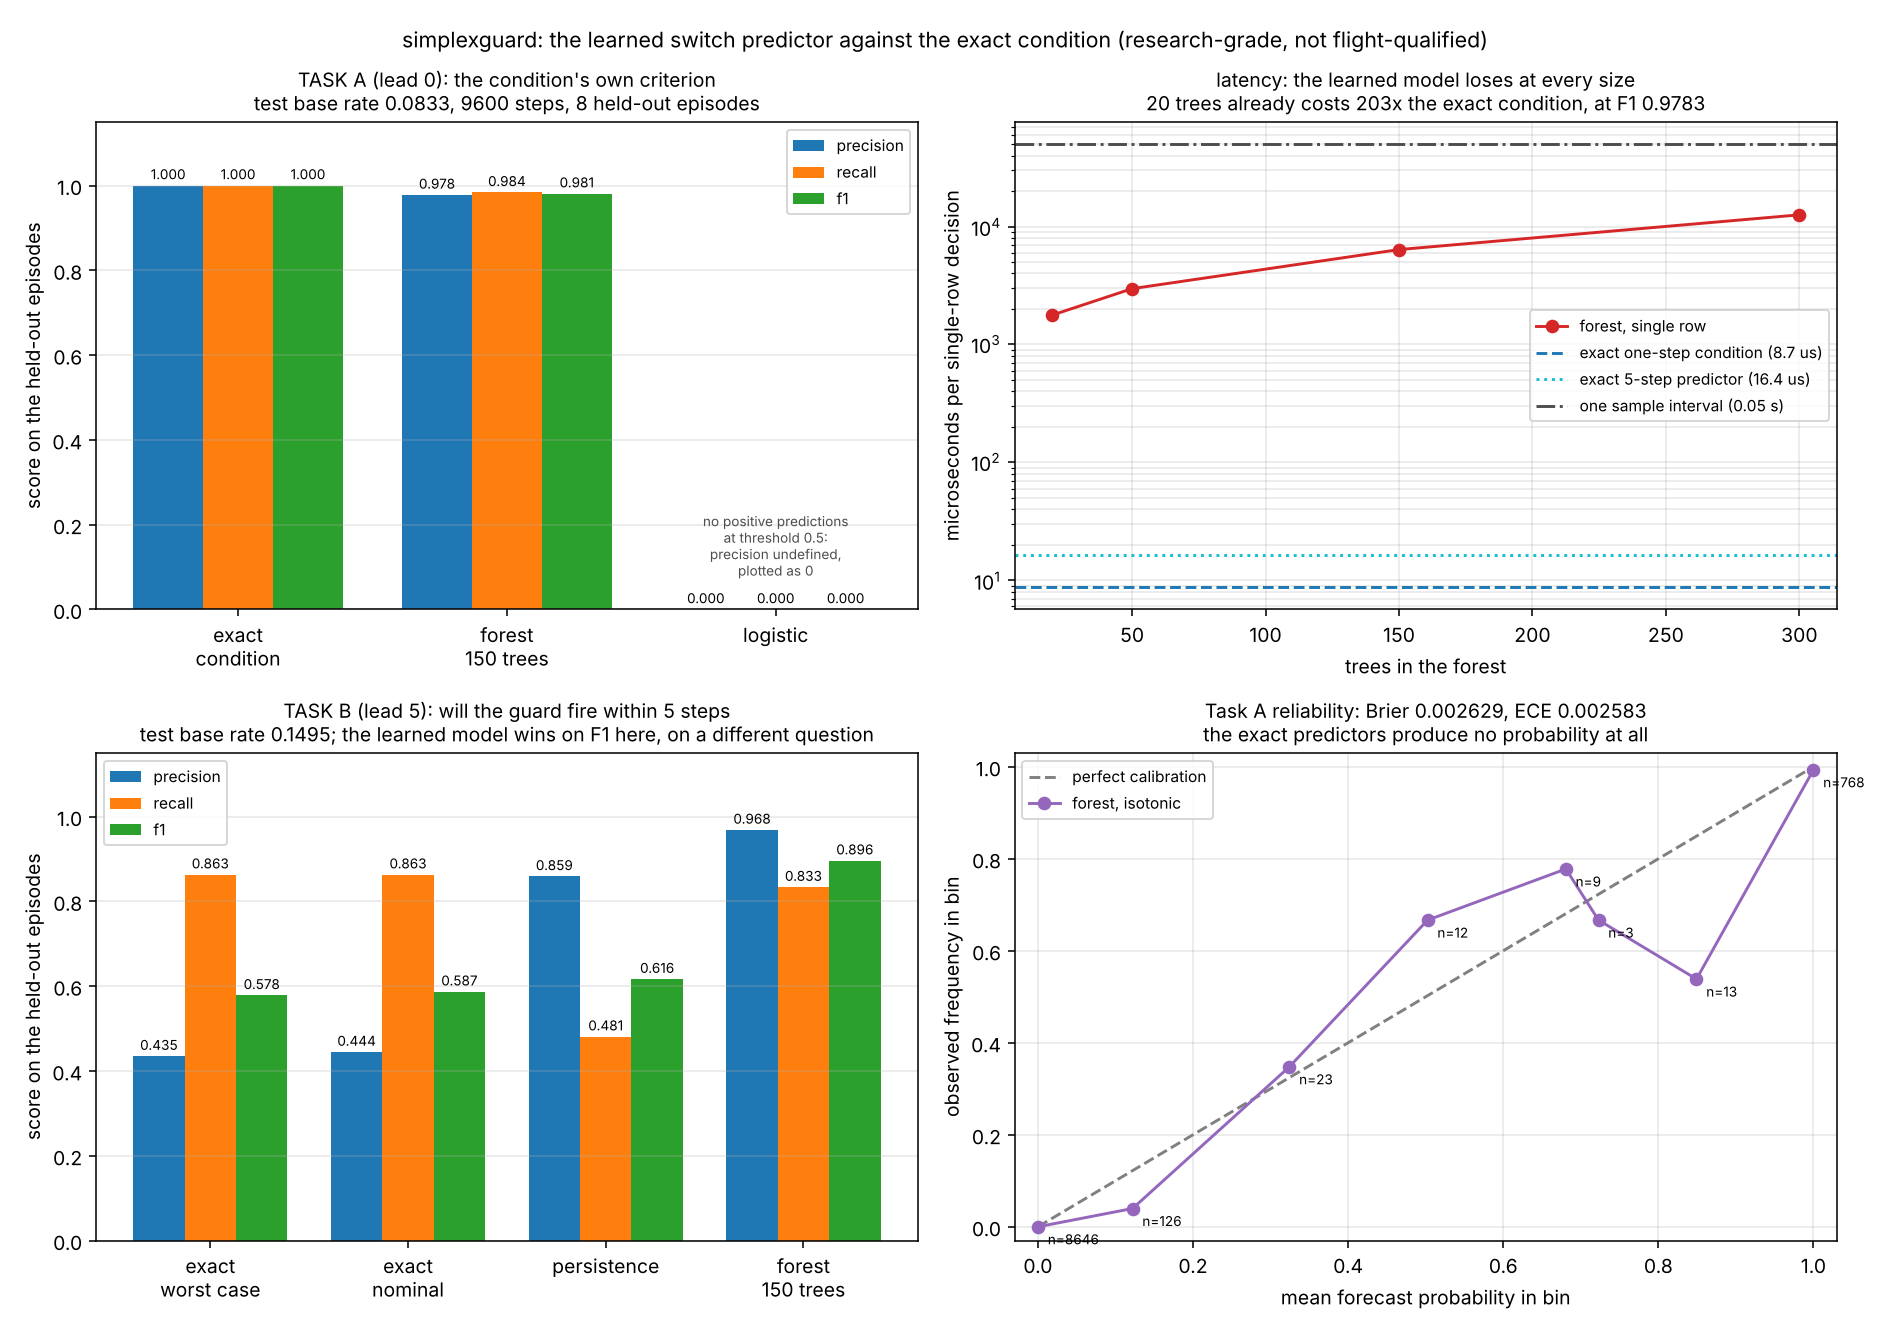
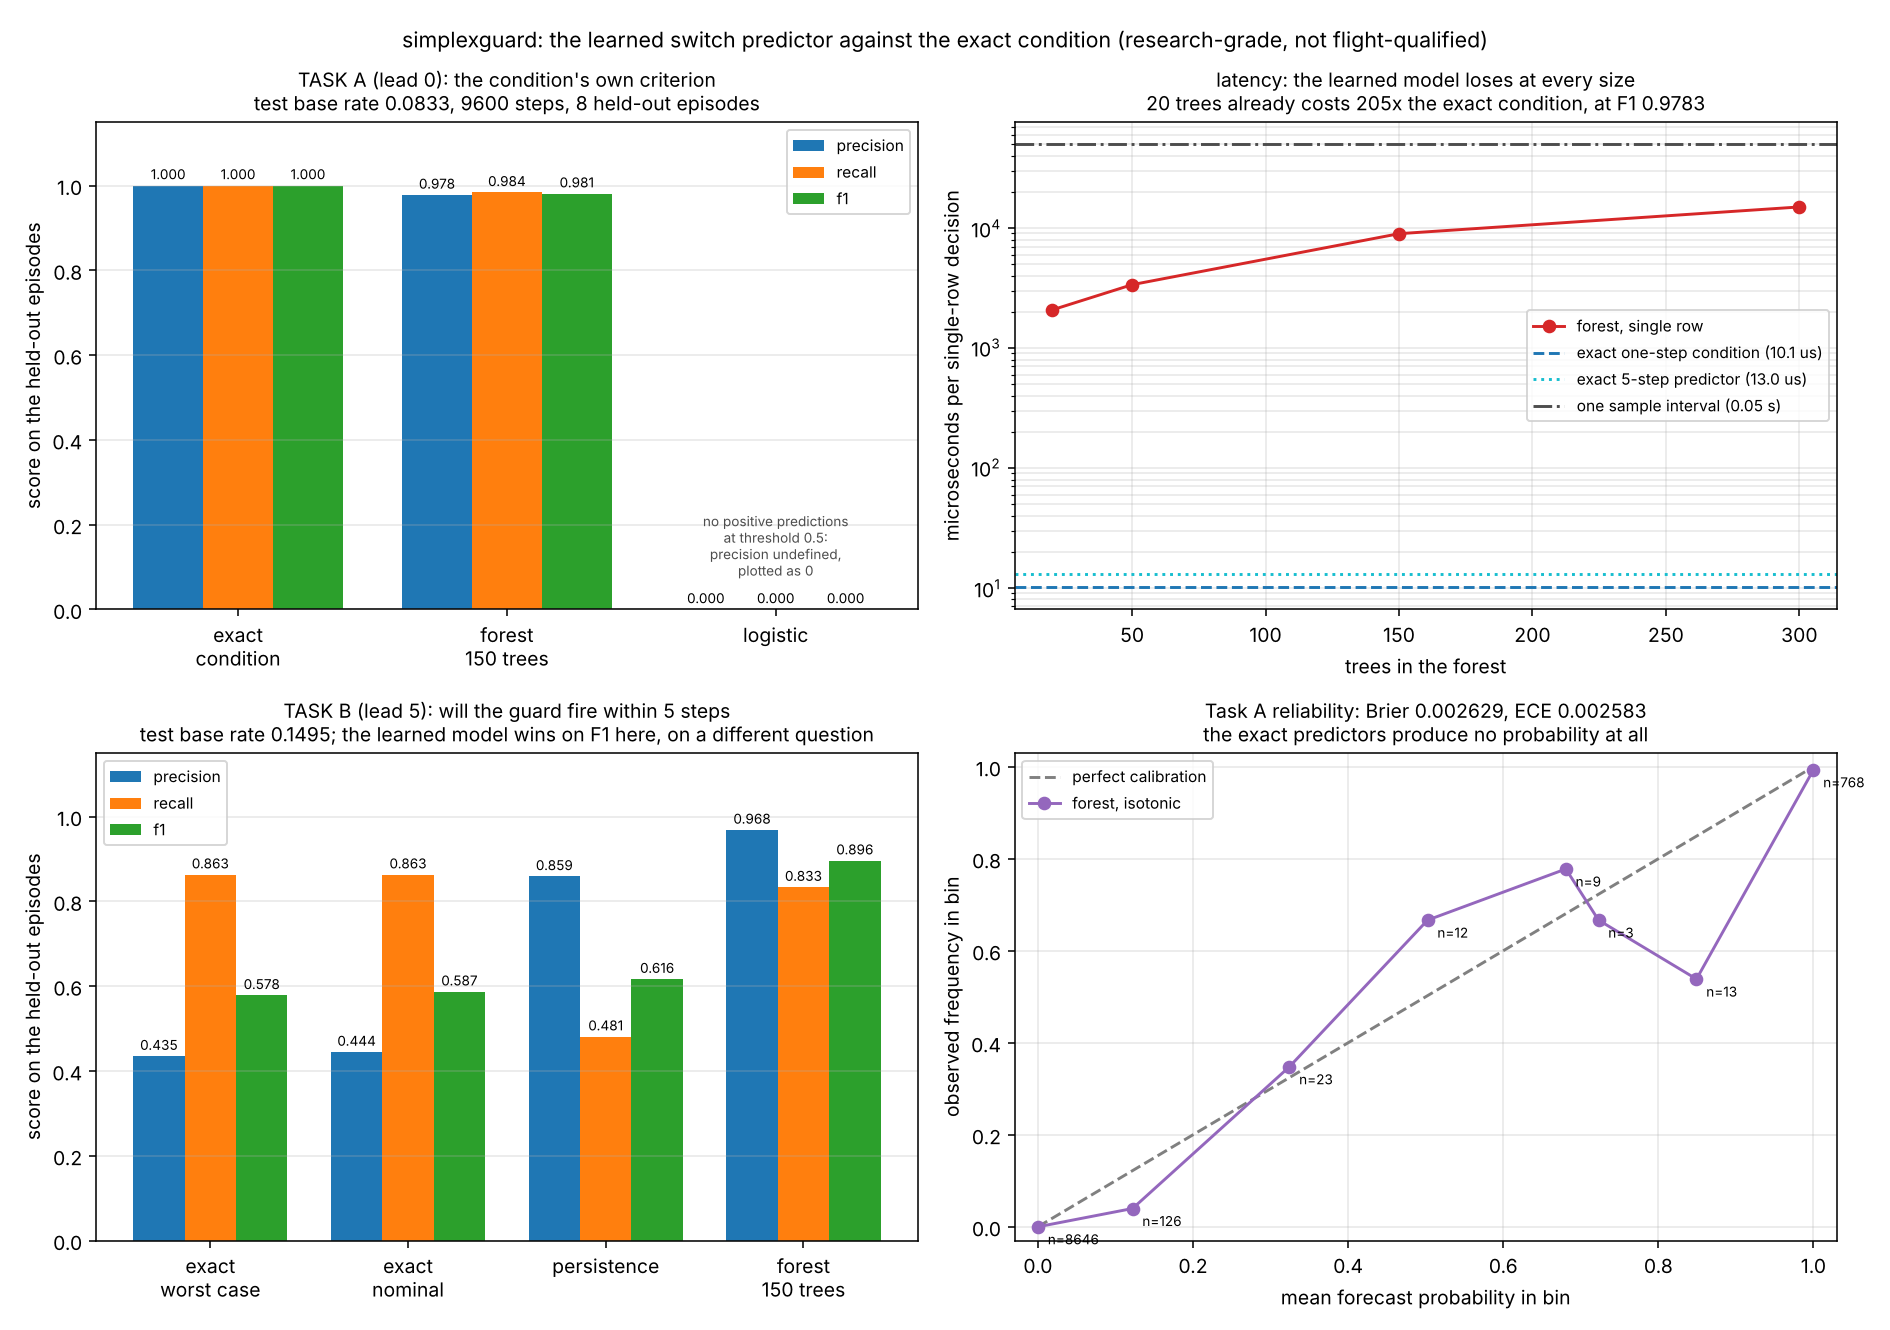
Gate verdict BLOCKED: P053 to NEEDS HARDENING, my own path defect fixed
scripts/release_gate.py over P051,P052,P053,P054,P055,P059 exited 1.
Two independent blockers, recorded verbatim in tonight's report:

1. P053 TwinInvalidate: validation/validate_thresholds.py exits 1 by design.
   It publishes two FAILING variance-CUSUM threshold-transfer checks rather
   than widening the tolerance, which the honest-negative policy requires,
   and gate check 6 requires every validation script to re-execute
   successfully. The two policies genuinely conflict here. Not resolved in
   this session: the gate was not edited, the tolerance was not widened, and
   the failing check was not hidden. P053 is set to NEEDS HARDENING and the
   convention question goes to the owner.

2. Repository-wide check 8, absolute private path tracked: introduced by THIS
   session in nightly_reports/2026-10-08.md and tracking/SESSION_CHECKPOINT.json,
   which quoted the owner's home path literally. Fixed here by writing it in
   the redacted form the gate's own comment prescribes. This was my defect,
   not a product's, and fixing it is not gate-loosening.

Per the standing rule, exit 1 publishes NOTHING from this batch, including the
five products that passed. P051, P052, P054, P055 and P059 are built, tested
and gate-PASS but stay unpublished.

diff --git a/nightly_reports/2026-10-08.md b/nightly_reports/2026-10-08.md
@@ -18,9 +18,9 @@ returned.
 | Real write probe | PASS — pushed `refs/heads/probe-1791428909`, confirmed by `git ls-remote`, then deleted |
 
 `get_device_info` again reported `connectedFolders: []` despite the task
-reminder naming `/Users/acharya/100 Aero Prods`. This is the regression the
+reminder naming `/Users/<user>/100 Aero Prods`. This is the regression the
 2026-10-07 checkpoint propagated forward. `device_request_folder_access` for
-that one path returned `{"granted":["/Users/acharya/100 Aero Prods"]}`
+that one path returned `{"granted":["/Users/<user>/100 Aero Prods"]}`
 immediately, so the bundle transfer path is open. The lesson held: osascript
 works without the grant, `device_commit_files` does not.
 
